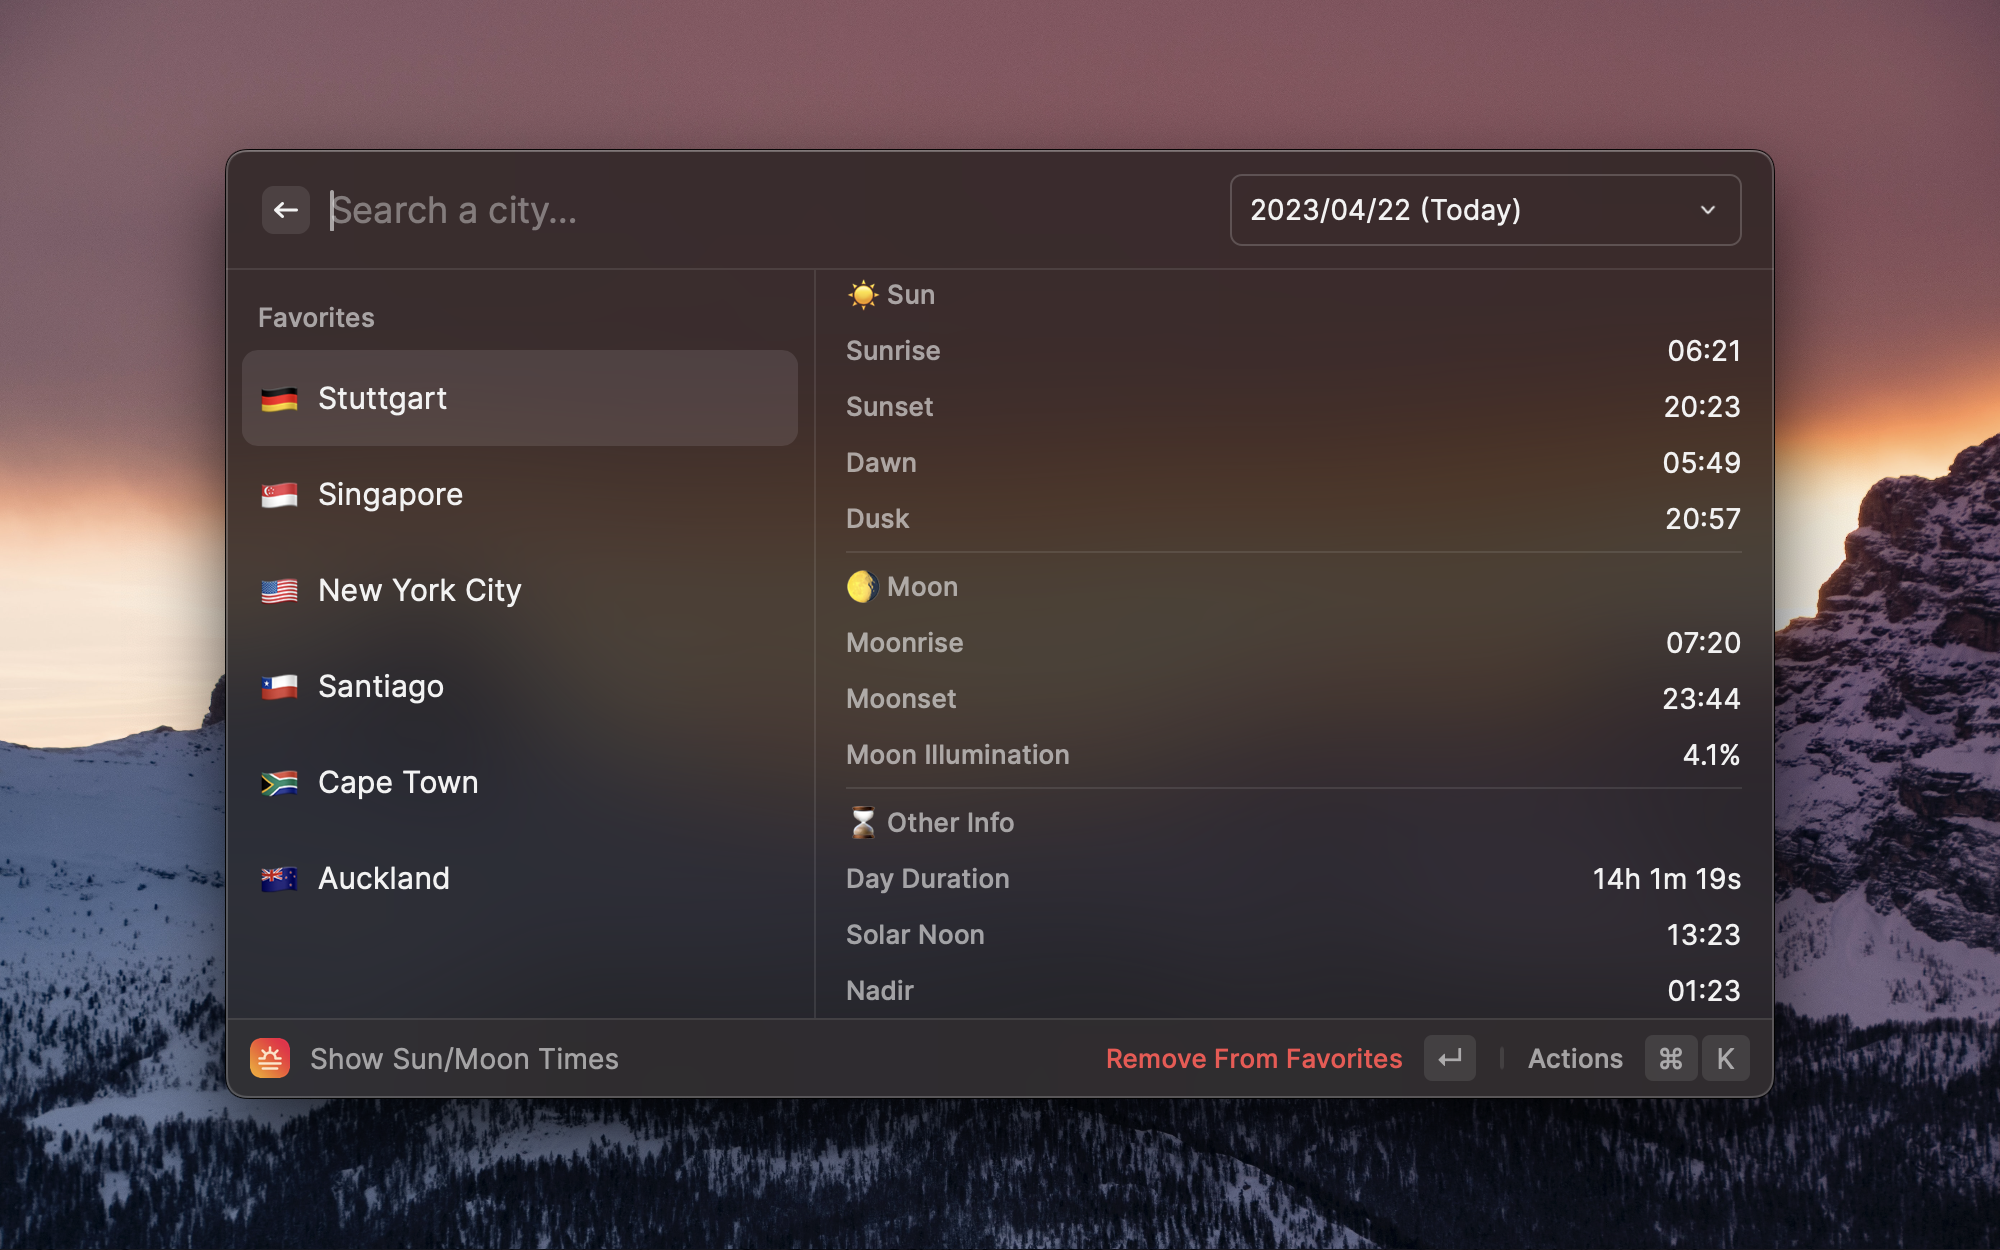
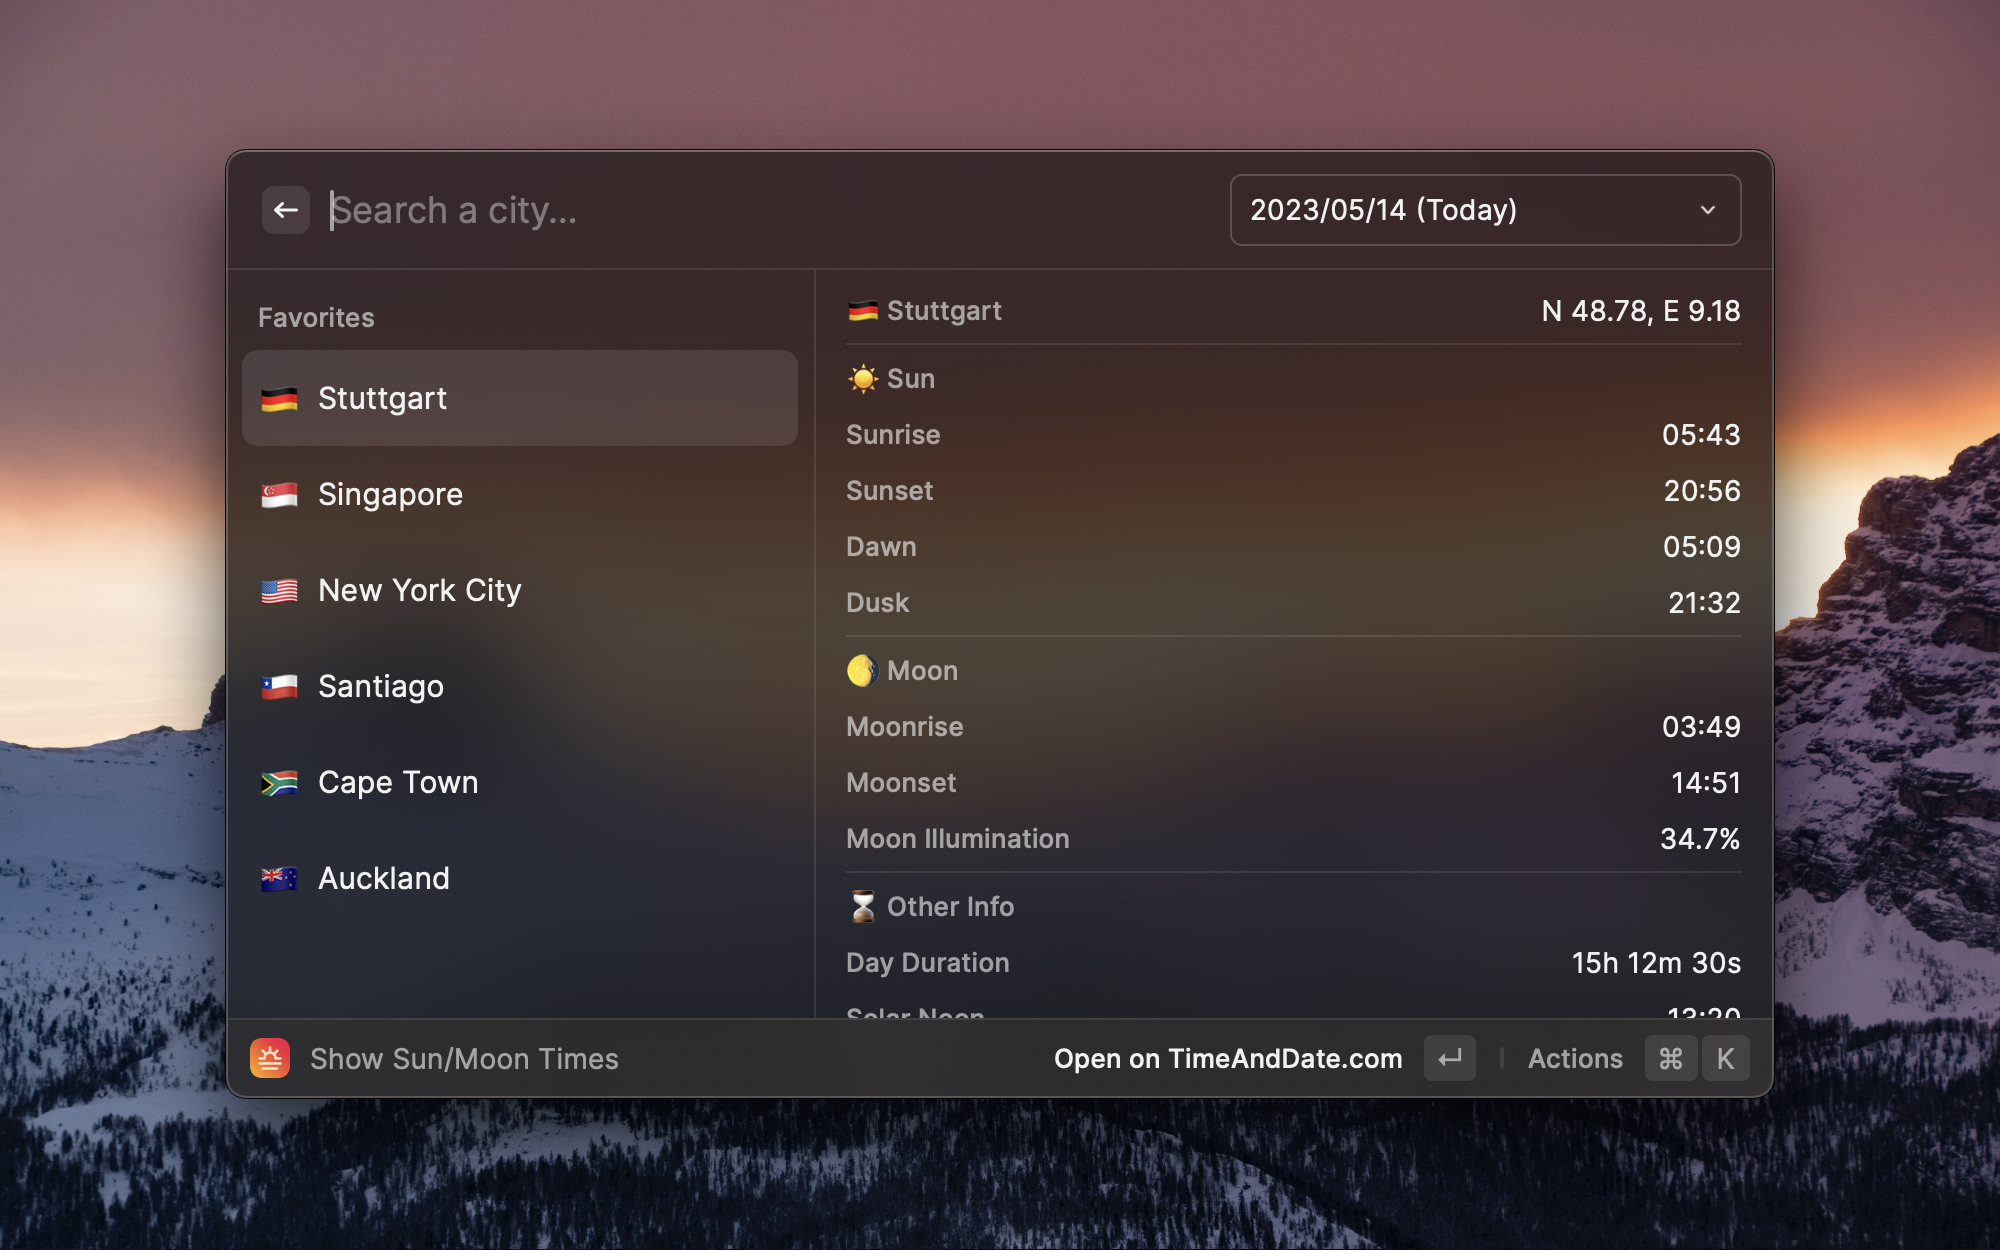
updated docs

diff --git a/CHANGELOG.md b/CHANGELOG.md
@@ -1,5 +1,10 @@
 # Sun/Moon Times Changelog
 
+## [v1.3.0] - 2023-05-14
+
+- Add option to quickly open location on timeanddate.com
+- Change favorite shortcut to `cmd + shift + f` to avoid conflicts with the new option
+
 ## [v1.2.1] - 2023-04-27
 
 - Fix bug where the calculated times were off by one day
@@ -17,5 +22,5 @@
 ## [v1.0.0] - 2023-03-24
 
 - Search for a city and display detailed info for the sun and moon
-- Add and remove cities from your favorites list.
-- Change the order of the cities in your favorites list.
+- Add and remove cities from your favorites list
+- Change the order of the cities in your favorites list

diff --git a/README.md b/README.md
@@ -14,4 +14,4 @@ Show info for sun and moon for any city in the World.
 - Add and remove cities from your favorites list
 - Change the order of the cities in your favorites list
 
-
+![Actions](assets/sun-moon-times-3.png)
